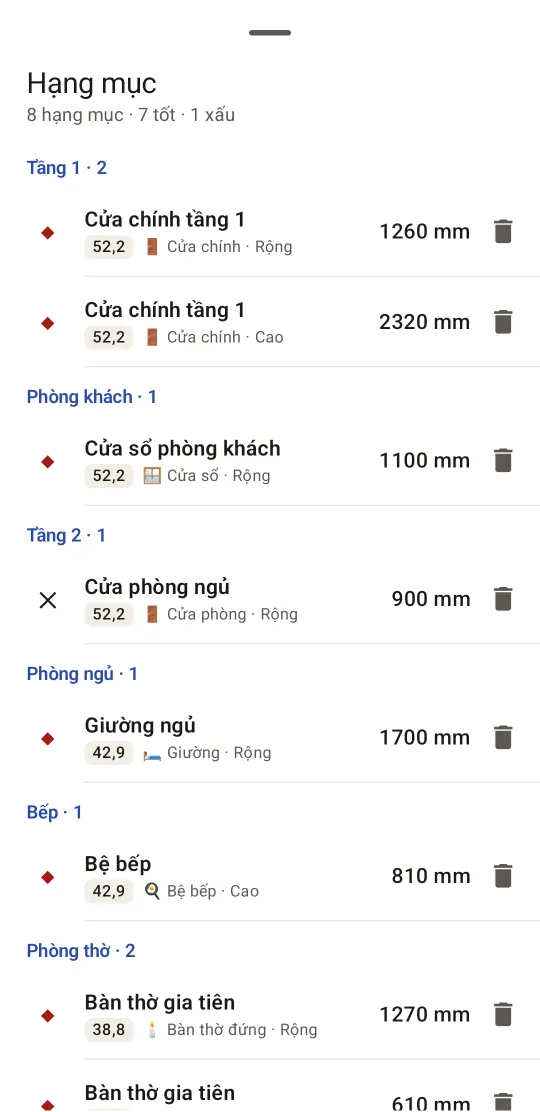
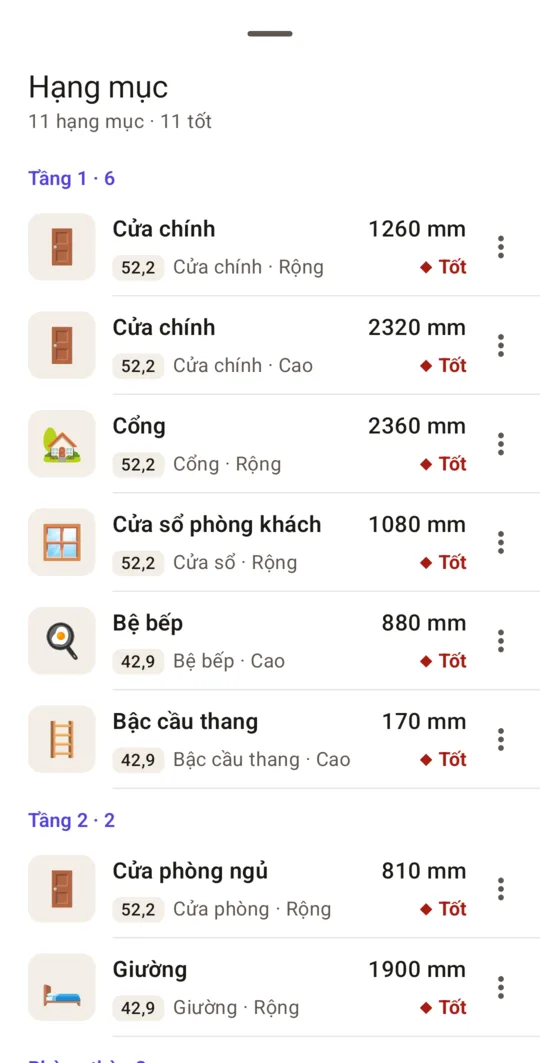
feat(muc-thuoc): new screenshots, iPhone version coming to the App Store
The screenshots are the new Android captures (540×1063, without the system bars),
with alt text for what they now show. The hero line said the iOS version was in
development; it now says the iPhone version is coming to the App Store, since this
page is the App Store listing's support URL.

diff --git a/muc-thuoc/index.html b/muc-thuoc/index.html
@@ -112,7 +112,7 @@
             <div class="app-icon" style="box-shadow: var(--shadow-md);"><img src="../assets/muc-thuoc/icon.png" alt="Mực Thước app icon" width="64" height="64"></div>
             <div>
               <h1 class="policy-title">Mực Thước – Thước Lỗ Ban</h1>
-              <p style="margin-top: 0.25rem; font-size: 1rem;">Android · Miễn phí · Không cần tài khoản · Bản iOS đang phát triển</p>
+              <p style="margin-top: 0.25rem; font-size: 1rem;">Android · Miễn phí · Không cần tài khoản · Bản iPhone sắp có trên App Store</p>
             </div>
           </div>
 
@@ -140,27 +140,27 @@
       <div class="container">
         <div class="screens">
           <figure>
-            <img src="../assets/muc-thuoc/ruler.webp" width="540" height="1112" alt="Cửa chính rộng 1260 mm: Tốt, cung Thiên Tài trên thước thông thủy 52,2 cm, cả 3 thước đều tốt">
+            <img src="../assets/muc-thuoc/ruler.webp" width="540" height="1063" alt="Cửa chính rộng 1260 mm: Tốt, cung Thiên Tài trên thước thông thủy 52,2 cm, cả 3 thước đều tốt">
             <figcaption>Kết luận trên cả 3 thước</figcaption>
           </figure>
           <figure>
-            <img src="../assets/muc-thuoc/suggest.webp" width="540" height="1112" loading="lazy" alt="Cửa phòng rộng 900 mm: Xấu, cung Cô Độc, gợi ý 843 mm hoặc 984 mm">
+            <img src="../assets/muc-thuoc/suggest.webp" width="540" height="1063" loading="lazy" alt="Cửa chính rộng 1200 mm: Xấu, cung Thiên Tai, gợi ý 1104 mm hoặc 1245 mm">
             <figcaption>Báo xấu kèm gợi ý kích thước đẹp gần nhất</figcaption>
           </figure>
           <figure>
-            <img src="../assets/muc-thuoc/grid.webp" width="540" height="1112" loading="lazy" alt="Lưới gợi ý Rộng × Cao cho cửa chính, bước 50 mm">
+            <img src="../assets/muc-thuoc/grid.webp" width="540" height="1063" loading="lazy" alt="Lưới gợi ý Rộng × Cao cho cửa chính, bước 20 mm">
             <figcaption>Lưới Rộng × Cao cho cửa</figcaption>
           </figure>
           <figure>
-            <img src="../assets/muc-thuoc/presets.webp" width="540" height="1112" loading="lazy" alt="Chọn hạng mục: cửa, cổng, giếng trời, bệ bếp, giường, tủ quần áo">
+            <img src="../assets/muc-thuoc/presets.webp" width="540" height="1063" loading="lazy" alt="Chọn hạng mục: cửa, cổng, giếng trời, bệ bếp, giường, tủ quần áo">
             <figcaption>Chọn hạng mục, app chọn thước</figcaption>
           </figure>
           <figure>
-            <img src="../assets/muc-thuoc/altar.webp" width="540" height="1112" loading="lazy" alt="Bàn thờ đứng rộng 1270 mm: Tốt, cung Vượng trên thước âm phần 38,8 cm, đạt 3/3">
+            <img src="../assets/muc-thuoc/altar.webp" width="540" height="1063" loading="lazy" alt="Bàn thờ đứng rộng 1270 mm: Tốt, cung Vượng trên thước âm phần 38,8 cm, đạt 3/3">
             <figcaption>Bàn thờ: Rộng × Sâu × Cao</figcaption>
           </figure>
           <figure>
-            <img src="../assets/muc-thuoc/items.webp" width="540" height="1112" loading="lazy" alt="Danh sách hạng mục của dự án, nhóm theo khu vực">
+            <img src="../assets/muc-thuoc/items.webp" width="540" height="1063" loading="lazy" alt="Danh sách hạng mục của dự án, nhóm theo khu vực">
             <figcaption>Lưu hạng mục theo dự án</figcaption>
           </figure>
         </div>

diff --git a/muc-thuoc/en.html b/muc-thuoc/en.html
@@ -112,7 +112,7 @@
             <div class="app-icon" style="box-shadow: var(--shadow-md);"><img src="../assets/muc-thuoc/icon.png" alt="Mực Thước app icon" width="64" height="64"></div>
             <div>
               <h1 class="policy-title">Mực Thước – Luban Ruler</h1>
-              <p style="margin-top: 0.25rem; font-size: 1rem;">Android · Free · No account · iOS version in development</p>
+              <p style="margin-top: 0.25rem; font-size: 1rem;">Android · Free · No account · iPhone version coming to the App Store in Vietnam</p>
             </div>
           </div>
 
@@ -143,27 +143,27 @@
       <div class="container">
         <div class="screens">
           <figure>
-            <img src="../assets/muc-thuoc/ruler.webp" width="540" height="1112" alt="Main door 1260 mm wide: good, Thiên Tài section on the 52.2 cm ruler, good on all 3 rulers">
+            <img src="../assets/muc-thuoc/ruler.webp" width="540" height="1063" alt="Main door 1260 mm wide: good, Thiên Tài section on the 52.2 cm ruler, good on all 3 rulers">
             <figcaption>One verdict across all 3 rulers</figcaption>
           </figure>
           <figure>
-            <img src="../assets/muc-thuoc/suggest.webp" width="540" height="1112" loading="lazy" alt="Room door 900 mm wide: bad, Cô Độc section, suggests 843 mm or 984 mm">
+            <img src="../assets/muc-thuoc/suggest.webp" width="540" height="1063" loading="lazy" alt="Main door 1200 mm wide: bad, Thiên Tai section, suggests 1104 mm or 1245 mm">
             <figcaption>Bad size, with the nearest good sizes</figcaption>
           </figure>
           <figure>
-            <img src="../assets/muc-thuoc/grid.webp" width="540" height="1112" loading="lazy" alt="Width × height suggestion grid for a main door, 50 mm steps">
+            <img src="../assets/muc-thuoc/grid.webp" width="540" height="1063" loading="lazy" alt="Width × height suggestion grid for a main door, 20 mm steps">
             <figcaption>Width × height grid for doors</figcaption>
           </figure>
           <figure>
-            <img src="../assets/muc-thuoc/presets.webp" width="540" height="1112" loading="lazy" alt="Item picker: doors, gate, light well, kitchen counter, bed, wardrobe">
+            <img src="../assets/muc-thuoc/presets.webp" width="540" height="1063" loading="lazy" alt="Item picker: doors, gate, light well, kitchen counter, bed, wardrobe">
             <figcaption>Pick the item, the app picks the ruler</figcaption>
           </figure>
           <figure>
-            <img src="../assets/muc-thuoc/altar.webp" width="540" height="1112" loading="lazy" alt="Standing altar 1270 mm wide: good, Vượng section on the 38.8 cm ruler, 3 of 3 sizes good">
+            <img src="../assets/muc-thuoc/altar.webp" width="540" height="1063" loading="lazy" alt="Standing altar 1270 mm wide: good, Vượng section on the 38.8 cm ruler, 3 of 3 sizes good">
             <figcaption>Altars: width × depth × height</figcaption>
           </figure>
           <figure>
-            <img src="../assets/muc-thuoc/items.webp" width="540" height="1112" loading="lazy" alt="A project's saved items, grouped by room">
+            <img src="../assets/muc-thuoc/items.webp" width="540" height="1063" loading="lazy" alt="A project's saved items, grouped by room">
             <figcaption>Save sizes in projects</figcaption>
           </figure>
         </div>

diff --git a/muc-thuoc/zh-hant.html b/muc-thuoc/zh-hant.html
@@ -112,7 +112,7 @@
             <div class="app-icon" style="box-shadow: var(--shadow-md);"><img src="../assets/muc-thuoc/icon.png" alt="Mực Thước app icon" width="64" height="64"></div>
             <div>
               <h1 class="policy-title">墨尺 – 文公尺・魯班尺</h1>
-              <p style="margin-top: 0.25rem; font-size: 1rem;">Android · 免費 · 不需帳號 · iOS 版開發中</p>
+              <p style="margin-top: 0.25rem; font-size: 1rem;">Android · 免費 · 不需帳號 · iPhone 版即將在越南 App Store 上架</p>
             </div>
           </div>
 
@@ -143,27 +143,27 @@
       <div class="container">
         <div class="screens">
           <figure>
-            <img src="../assets/muc-thuoc/ruler.webp" width="540" height="1112" alt="大門寬 1260 公釐：52.2 公分通水尺為吉，三把尺皆吉">
+            <img src="../assets/muc-thuoc/ruler.webp" width="540" height="1063" alt="大門寬 1260 公釐：52.2 公分通水尺為吉，三把尺皆吉">
             <figcaption>三把尺同時判斷</figcaption>
           </figure>
           <figure>
-            <img src="../assets/muc-thuoc/suggest.webp" width="540" height="1112" loading="lazy" alt="房門寬 900 公釐為凶，建議 843 公釐或 984 公釐">
+            <img src="../assets/muc-thuoc/suggest.webp" width="540" height="1063" loading="lazy" alt="大門寬 1200 公釐為凶，建議 1104 公釐或 1245 公釐">
             <figcaption>凶尺寸附最近的吉利尺寸</figcaption>
           </figure>
           <figure>
-            <img src="../assets/muc-thuoc/grid.webp" width="540" height="1112" loading="lazy" alt="大門寬 × 高建議網格，間距 50 公釐">
+            <img src="../assets/muc-thuoc/grid.webp" width="540" height="1063" loading="lazy" alt="大門寬 × 高建議網格，間距 20 公釐">
             <figcaption>門的寬 × 高網格</figcaption>
           </figure>
           <figure>
-            <img src="../assets/muc-thuoc/presets.webp" width="540" height="1112" loading="lazy" alt="選擇物品：門、大門、天井、流理台、床、衣櫃">
+            <img src="../assets/muc-thuoc/presets.webp" width="540" height="1063" loading="lazy" alt="選擇物品：門、大門、天井、流理台、床、衣櫃">
             <figcaption>先選物品，自動選尺</figcaption>
           </figure>
           <figure>
-            <img src="../assets/muc-thuoc/altar.webp" width="540" height="1112" loading="lazy" alt="神桌寬 1270 公釐：丁蘭尺旺字為吉，三項皆吉">
+            <img src="../assets/muc-thuoc/altar.webp" width="540" height="1063" loading="lazy" alt="神桌寬 1270 公釐：丁蘭尺旺字為吉，三項皆吉">
             <figcaption>神桌：寬 × 深 × 高</figcaption>
           </figure>
           <figure>
-            <img src="../assets/muc-thuoc/items.webp" width="540" height="1112" loading="lazy" alt="專案中已儲存的尺寸，按區域分組">
+            <img src="../assets/muc-thuoc/items.webp" width="540" height="1063" loading="lazy" alt="專案中已儲存的尺寸，按區域分組">
             <figcaption>按專案儲存尺寸</figcaption>
           </figure>
         </div>

diff --git a/muc-thuoc/zh-hans.html b/muc-thuoc/zh-hans.html
@@ -112,7 +112,7 @@
             <div class="app-icon" style="box-shadow: var(--shadow-md);"><img src="../assets/muc-thuoc/icon.png" alt="Mực Thước app icon" width="64" height="64"></div>
             <div>
               <h1 class="policy-title">墨尺 – 鲁班尺・文公尺</h1>
-              <p style="margin-top: 0.25rem; font-size: 1rem;">Android · 免费 · 无需账号 · iOS 版开发中</p>
+              <p style="margin-top: 0.25rem; font-size: 1rem;">Android · 免费 · 无需账号 · iPhone 版即将在越南 App Store 上架</p>
             </div>
           </div>
 
@@ -143,27 +143,27 @@
       <div class="container">
         <div class="screens">
           <figure>
-            <img src="../assets/muc-thuoc/ruler.webp" width="540" height="1112" alt="大门宽 1260 毫米：52.2 厘米通水尺为吉，三把尺皆吉">
+            <img src="../assets/muc-thuoc/ruler.webp" width="540" height="1063" alt="大门宽 1260 毫米：52.2 厘米通水尺为吉，三把尺皆吉">
             <figcaption>三把尺同时判断</figcaption>
           </figure>
           <figure>
-            <img src="../assets/muc-thuoc/suggest.webp" width="540" height="1112" loading="lazy" alt="房门宽 900 毫米为凶，建议 843 毫米或 984 毫米">
+            <img src="../assets/muc-thuoc/suggest.webp" width="540" height="1063" loading="lazy" alt="大门宽 1200 毫米为凶，建议 1104 毫米或 1245 毫米">
             <figcaption>凶尺寸附最近的吉利尺寸</figcaption>
           </figure>
           <figure>
-            <img src="../assets/muc-thuoc/grid.webp" width="540" height="1112" loading="lazy" alt="大门宽 × 高建议网格，步长 50 毫米">
+            <img src="../assets/muc-thuoc/grid.webp" width="540" height="1063" loading="lazy" alt="大门宽 × 高建议网格，步长 20 毫米">
             <figcaption>门的宽 × 高网格</figcaption>
           </figure>
           <figure>
-            <img src="../assets/muc-thuoc/presets.webp" width="540" height="1112" loading="lazy" alt="选择物品：门、大门、天井、灶台、床、衣柜">
+            <img src="../assets/muc-thuoc/presets.webp" width="540" height="1063" loading="lazy" alt="选择物品：门、大门、天井、灶台、床、衣柜">
             <figcaption>先选物品，自动选尺</figcaption>
           </figure>
           <figure>
-            <img src="../assets/muc-thuoc/altar.webp" width="540" height="1112" loading="lazy" alt="神台宽 1270 毫米：丁兰尺旺字为吉，三项皆吉">
+            <img src="../assets/muc-thuoc/altar.webp" width="540" height="1063" loading="lazy" alt="神台宽 1270 毫米：丁兰尺旺字为吉，三项皆吉">
             <figcaption>神台：宽 × 深 × 高</figcaption>
           </figure>
           <figure>
-            <img src="../assets/muc-thuoc/items.webp" width="540" height="1112" loading="lazy" alt="项目中已保存的尺寸，按区域分组">
+            <img src="../assets/muc-thuoc/items.webp" width="540" height="1063" loading="lazy" alt="项目中已保存的尺寸，按区域分组">
             <figcaption>按项目保存尺寸</figcaption>
           </figure>
         </div>
